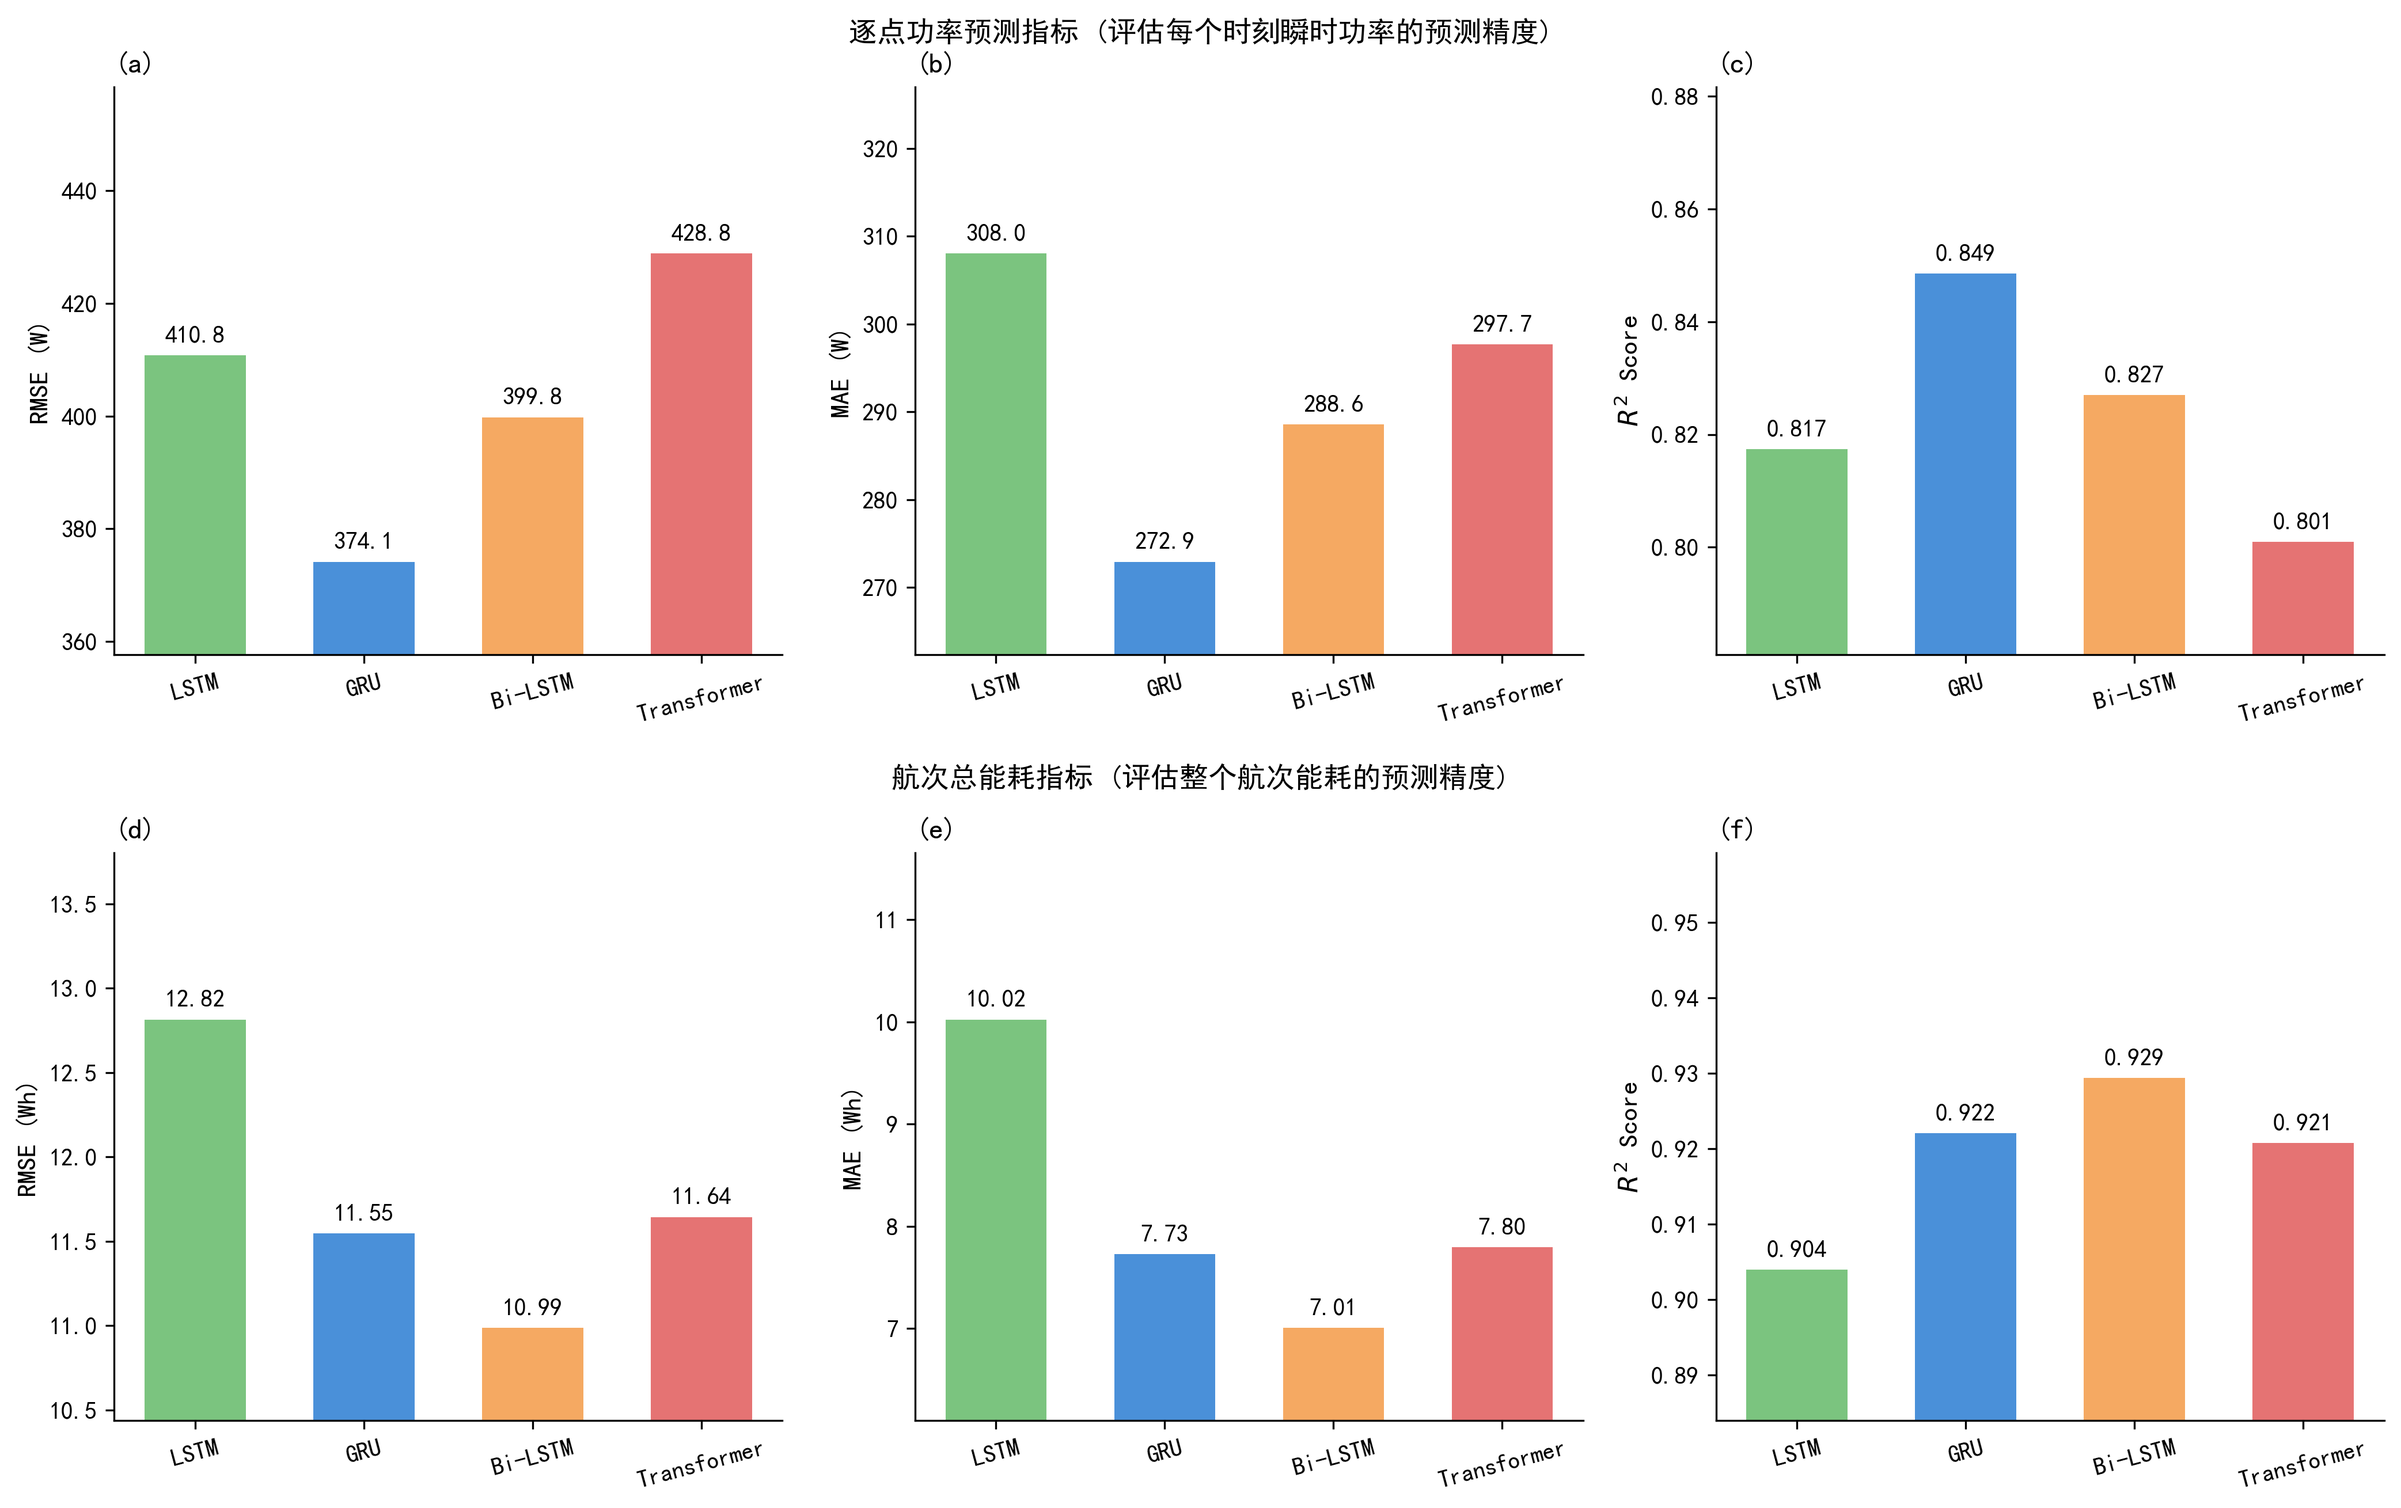
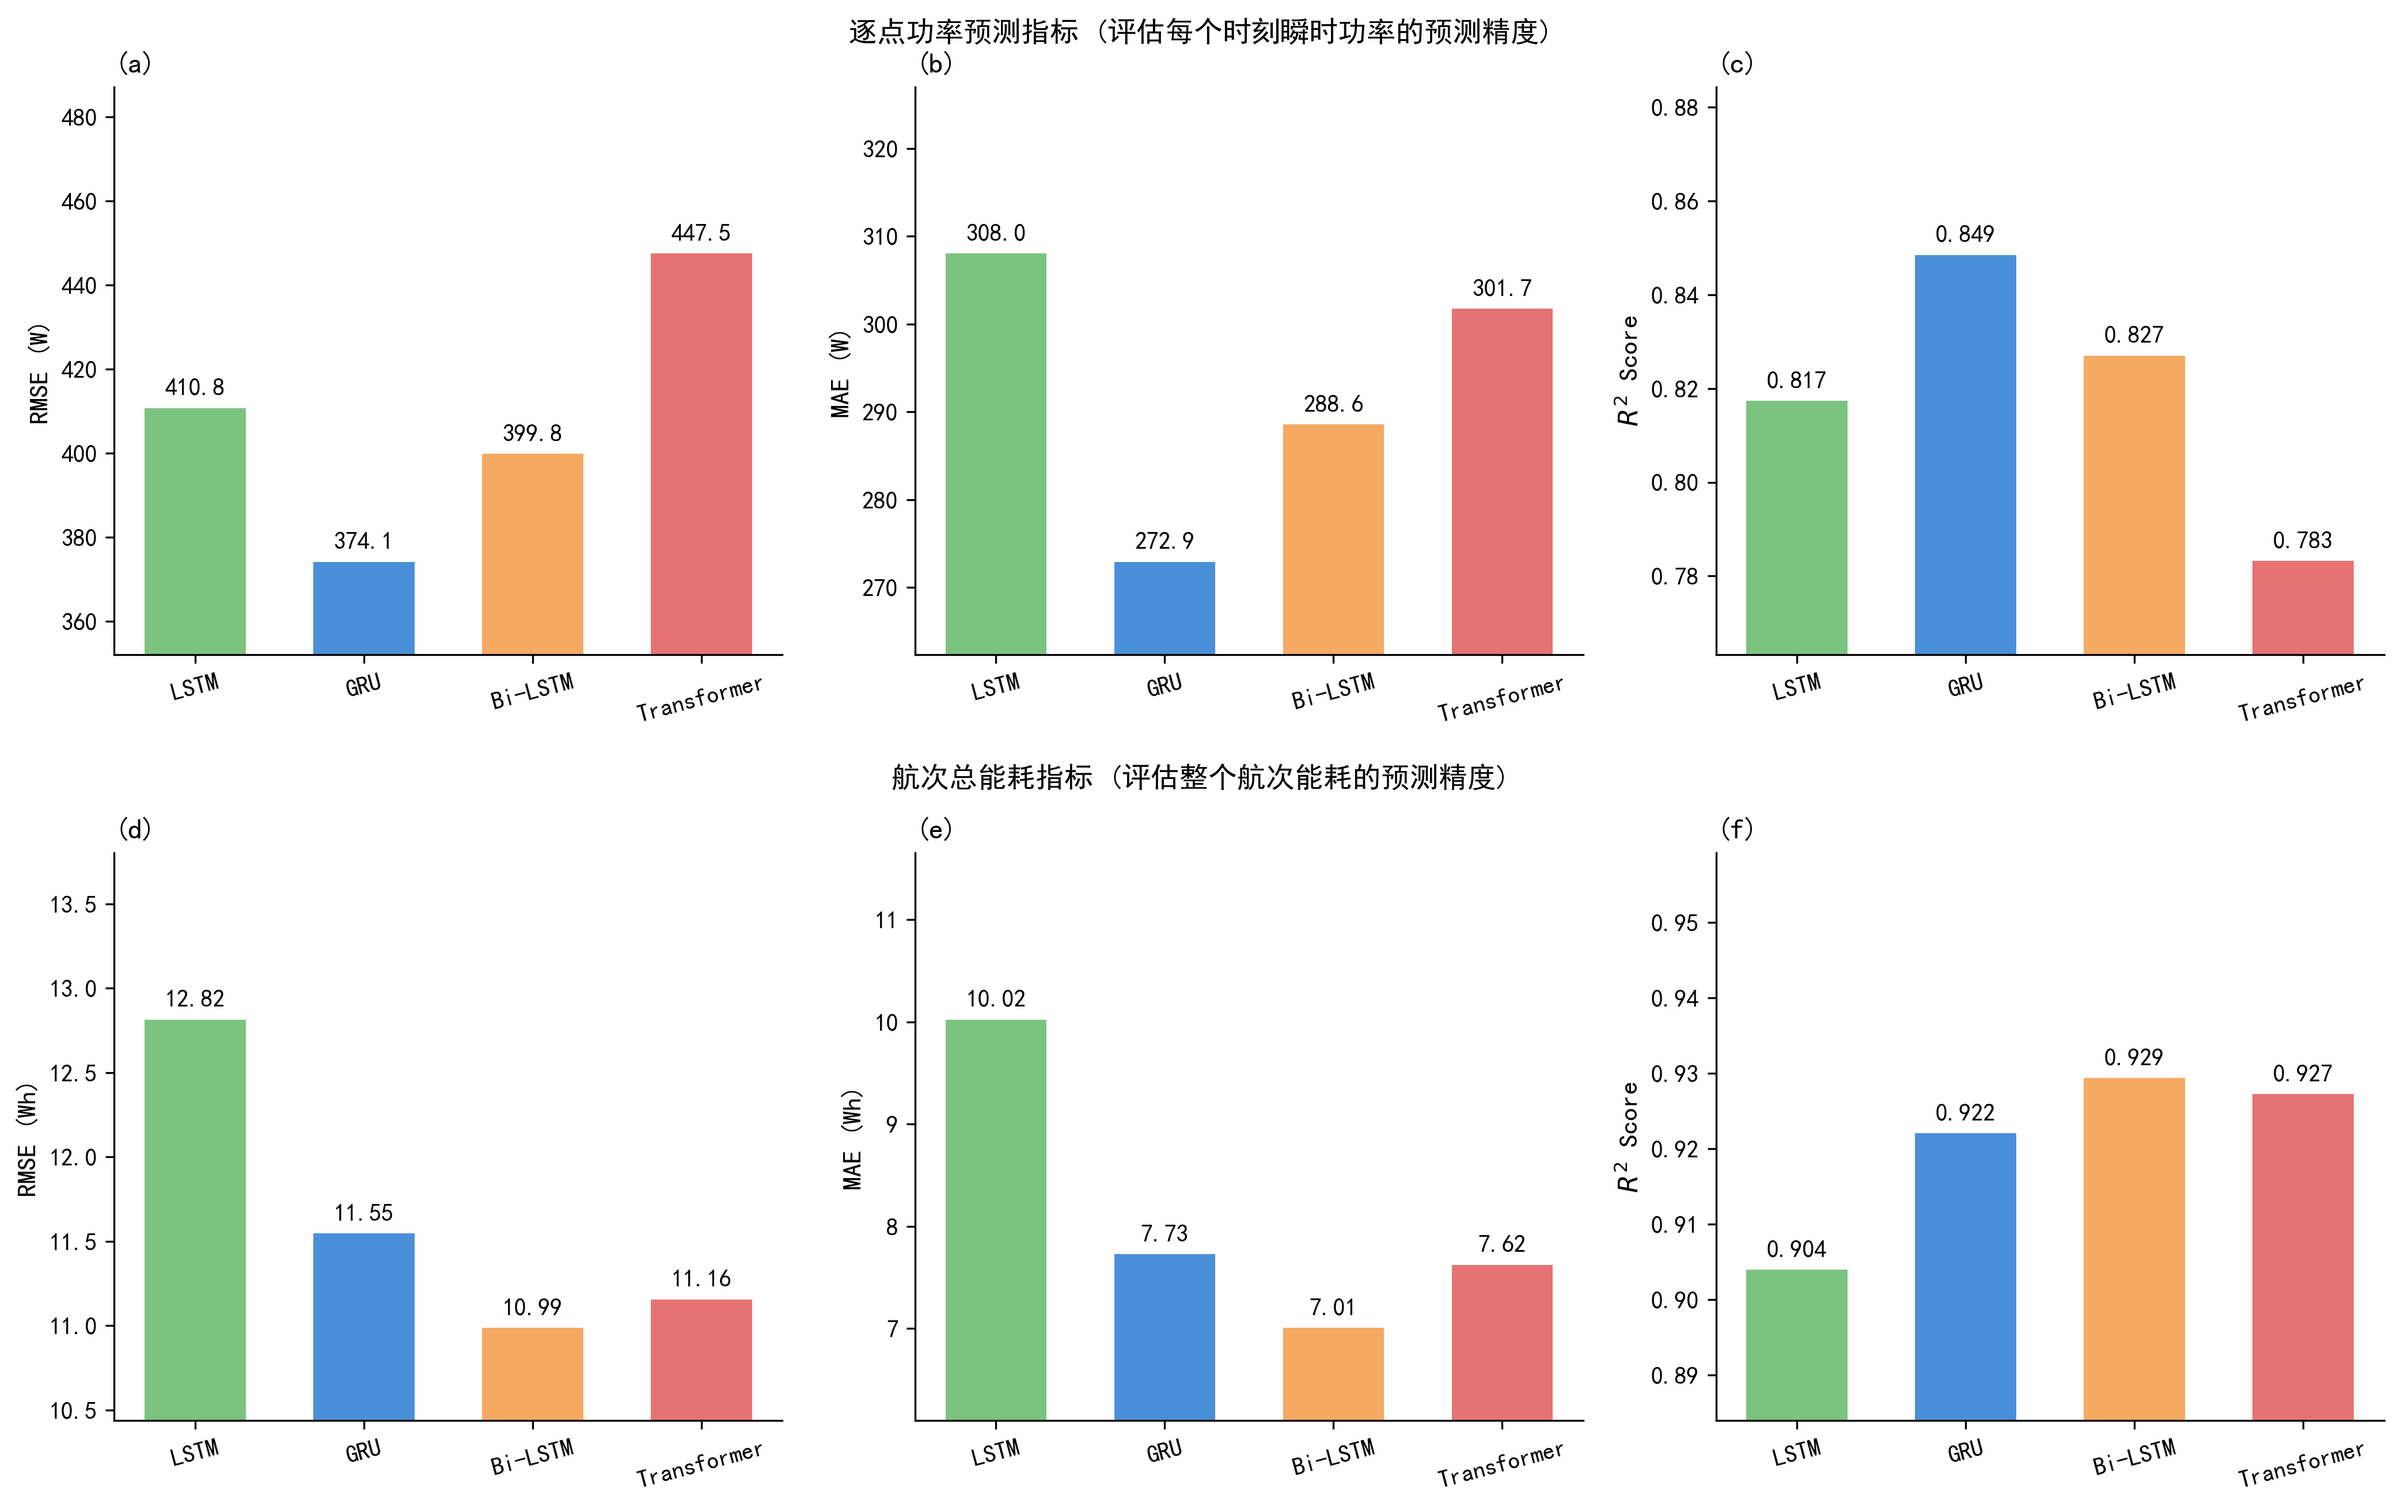
最新更新

diff --git a/evaluate_all_models.py b/evaluate_all_models.py
@@ -552,8 +552,8 @@ def plot_energy_comparison(predictions_dict, time_interval=1.0, save_path='resul
         ax_power.text(0.05, 0.95, textstr, transform=ax_power.transAxes, fontsize=9,
                      verticalalignment='top', horizontalalignment='left', bbox=props)
         
-        ax_power.set_xlabel('Actual Power (W)', fontsize=10)
-        ax_power.set_ylabel('Predicted Power (W)', fontsize=10)
+        ax_power.set_xlabel('实际功率 (W)', fontsize=10)
+        ax_power.set_ylabel('预测功率 (W)', fontsize=10)
         ax_power.set_title(f'({chr(97+idx)}) {model_name}', fontsize=11, fontweight='bold')
         ax_power.grid(True, alpha=0.3)
         
@@ -590,8 +590,8 @@ def plot_energy_comparison(predictions_dict, time_interval=1.0, save_path='resul
         ax_energy.text(0.05, 0.95, textstr, transform=ax_energy.transAxes, fontsize=9,
                       verticalalignment='top', horizontalalignment='left', bbox=props)
         
-        ax_energy.set_xlabel('Actual Energy (Wh)', fontsize=10)
-        ax_energy.set_ylabel('Predicted Energy (Wh)', fontsize=10)
+        ax_energy.set_xlabel('实际能耗 (Wh)', fontsize=10)
+        ax_energy.set_ylabel('预测能耗 (Wh)', fontsize=10)
         ax_energy.set_title(f'({chr(101+idx)})', fontsize=11, fontweight='bold')
         ax_energy.grid(True, alpha=0.3)
     
@@ -648,8 +648,8 @@ def plot_sequence_samples(predictions_dict, targets, order_ids, n_samples=3, sav
             
             color = colors.get(model_name, '#4A90D9')
             
-            ax.plot(time_axis, true_power, 'k-', label='Actual', linewidth=1.2, alpha=0.8)
-            ax.plot(time_axis, pred_power, color=color, linestyle='--', label='Predicted', linewidth=1.2, alpha=0.8)
+            ax.plot(time_axis, true_power, 'k-', label='实际值', linewidth=1.2, alpha=0.8)
+            ax.plot(time_axis, pred_power, color=color, linestyle='--', label='预测值', linewidth=1.2, alpha=0.8)
             ax.fill_between(time_axis, true_power, pred_power, alpha=0.15, color=color)
             
             # 添加指标
@@ -658,14 +658,14 @@ def plot_sequence_samples(predictions_dict, targets, order_ids, n_samples=3, sav
             ax.text(0.98, 0.98, textstr, transform=ax.transAxes, fontsize=9,
                    verticalalignment='top', horizontalalignment='right', bbox=props)
             
-            ax.set_xlabel('Time (s)', fontsize=10)
-            ax.set_ylabel('Power (W)', fontsize=10)
+            ax.set_xlabel('时间 (s)', fontsize=10)
+            ax.set_ylabel('功率 (W)', fontsize=10)
             
             if row == 0:
                 ax.set_title(f'{model_name}', fontsize=11, fontweight='bold')
             
             if col == 0:
-                ax.text(-0.15, 0.5, f'Flight {row+1}\n({len(true_power)}s)', 
+                ax.text(-0.15, 0.5, f'航次 {row+1}\n({len(true_power)}s)', 
                        transform=ax.transAxes, fontsize=10, verticalalignment='center',
                        horizontalalignment='right', fontweight='bold')
             
